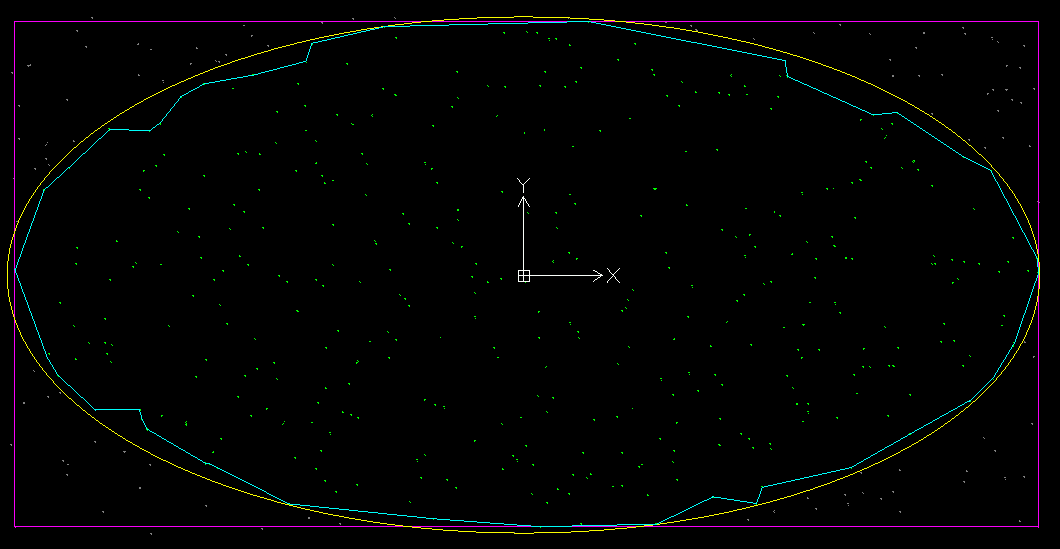
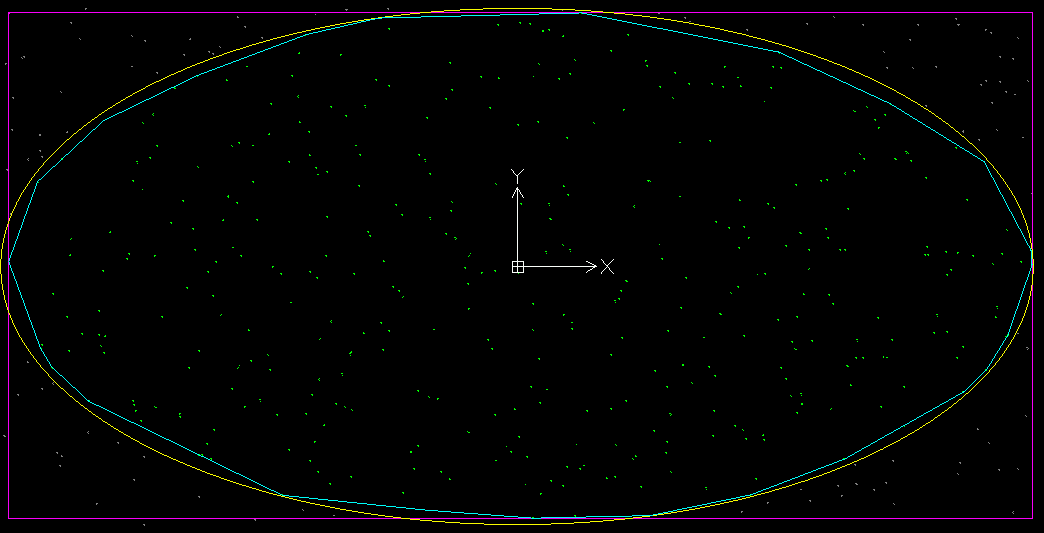
use convex hull from LoycCore ( https://github.com/qwertie/LoycCore )

diff --git a/src/Example08/Program.cs b/src/Example08/Program.cs
@@ -38,7 +38,7 @@ namespace SearchAThing.Sci.Examples
                 var bbox = pts.BBox();
                 bbox.DrawCuboid(doc, lay_bbox);
 
-                var hull = pts.DummyConvexHull(.1, debug: doc).PolygonSegments(.1);
+                var hull = pts.ConvexHull2D().PolygonSegments(.1);
                 foreach (var seg in hull)
                 {
                     doc.AddEntity(seg, lay_hull);

diff --git a/src/Example03/Program.cs b/src/Example03/Program.cs
@@ -89,7 +89,7 @@ namespace SearchAThing.Sci.Examples
 
             var bbox_rnd_inside = vs.BBox();
             bbox_rnd_inside.DrawCuboid(dxf, layerBboxInsidePoints);
-            var cxhull = vs.DummyConvexHull(tol);
+            var cxhull = vs.ConvexHull2D();
 
             // draw boundary
             dxf.AddEntity(boundary.ToLwPolyline(tol), layerBoundary);

diff --git a/README.md b/README.md
@@ -12,22 +12,9 @@ Examples for SearchAThing.Sci
 
 [Unit Tests](https://github.com/SearchAThing-old1/SearchAThing.Sci/tree/master/tests) are a good source for misc samples.
 
-## Dummy Convex Hull
+## Convex Hull 2D
 
-I needed for a simple and safe algorithm to compute convex hull for a set of 2d points and tried with some advanced libraries that computes voronoi and convex hull for 2d and 3d too, but I found there was some lacks of features such a polygon reconstruction and some exceptions that makes this simple rule too complex for my need.
-
-So I decided to build my own **dummy** convex hull algorithm which an implementation you can found [here](https://github.com/SearchAThing-old1/SearchAThing.Sci/blob/master/src/DummyConvexHull.cs).
-The implementation rely on functions from [SearchAThing.Sci](https://github.com/SearchAThing-old1/SearchAThing.Sci) libraries and basically it follows these steps:
-- [compute bounding box](https://github.com/SearchAThing-old1/SearchAThing.Sci/blob/30a2ab38662a8d0b75e1e78ecfec5da89cd25c5c/src/DummyConvexHull.cs#L66-L73) of input points
-- [assign input point to bbox side](https://github.com/SearchAThing-old1/SearchAThing.Sci/blob/30a2ab38662a8d0b75e1e78ecfec5da89cd25c5c/src/DummyConvexHull.cs#L75-L107), this will results in subgroup of points into each of 4 bbox faces and computing of perpendicular distance from each side
-- [choose winner points for each bbox side points](https://github.com/SearchAThing-old1/SearchAThing.Sci/blob/30a2ab38662a8d0b75e1e78ecfec5da89cd25c5c/src/DummyConvexHull.cs#L109-L167) by sweeping from extrema pivot points (those already contained on bbox segments) forward and backward keeping winner points ( those with less degree ) and adding them one by one for a subsequent analysis of extrema pivot points, now with these added
-- [glue extrema bbox side winner points together](https://github.com/SearchAThing-old1/SearchAThing.Sci/blob/30a2ab38662a8d0b75e1e78ecfec5da89cd25c5c/src/DummyConvexHull.cs#L169-L216) checking sequence order between bbox side by comparing the distance from the common side point to find in which direction traverse other side points to glue together within
-
-An optional debug parameter can be passed to the [DummyConvexHull](https://github.com/SearchAThing-old1/SearchAThing.Sci/blob/30a2ab38662a8d0b75e1e78ecfec5da89cd25c5c/src/DummyConvexHull.cs#L174-L177) function that allow you to see winner points segments before they gets glued together; these segments are placed in a "debug" dxf layer
-
-![img](/doc/Example08_01.PNG)
-
-![img](/doc/Example08_02.PNG)
+By using great [LoycCore](https://github.com/qwertie/LoycCore) library
 
 - [Example08](/src/Example08/Program.cs) : create some random point island and compute quick (dummy) hull
 ![img](/doc/Example08.PNG)
